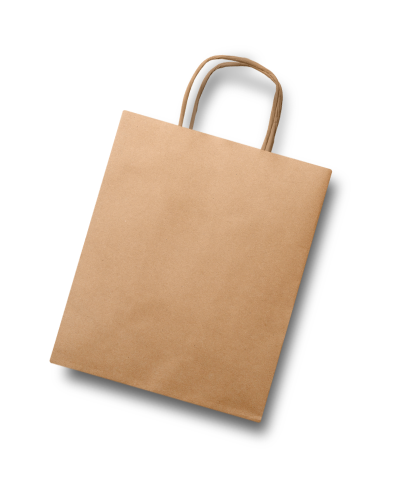
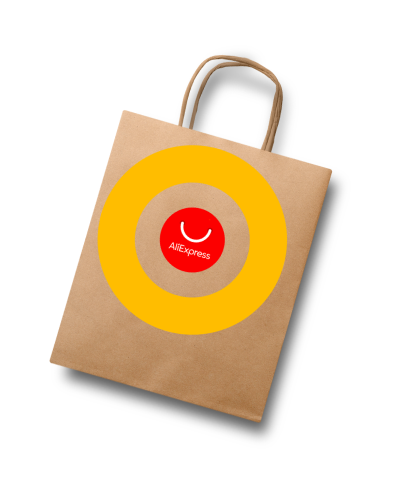
added target

Changed region(s): [[0.2324, 0.2923, 0.6973, 0.7015], [0.3777, 0.4092, 0.5521, 0.5846]]

diff --git a/index.html b/index.html
@@ -119,7 +119,7 @@
                     <div class="situation-solution__right">
                         <div class="leaky-sides">Решение</div>
                         <p class="situation-solution__right-text">Точнее, их два.</p>
-                        <ul class="situation-solution__list">
+                        <ol class="situation-solution__list">
                             <li class="situation-solution__list-item">
                                 <div class="situation-solution__list-circle">
                                     <span>1</span>
@@ -140,7 +140,7 @@
                                     рекламные инструменты, которыми вы пользовались до этого.
                                 </p>
                             </li>
-                        </ul>
+                        </ol>
                     </div>
                 </div>
             </div>
@@ -277,10 +277,41 @@
             <section class="how-section">
                 <div class="container">
                     <h2 class="section-title section-title--black">Как организован процесс?</h2>
-                    <div class="how-section__content">
-                        <div class="how-section__img-block">
-                            <img src="images/how-section-img/chels-misheniu.png" alt="misheniu">
-                        </div>
+                    <div class="how-section__img-block">
+                        <img src="images/how-section-img/chels-target.png" alt="target" />
+
+                        <ol class="how-section__list">
+                            <li class="how-section__list-item how-section__item-left">
+                                <span class="how-section__circle">2</span>
+                                <p class="how-section__item-text">
+                                    Представляет интересы мерчантов и коммуницирует с площадкой по всем
+                                    установочным вопросам.
+                                </p>
+                            </li>
+
+                            <li class="how-section__list-item">
+                                <span class="how-section__circle">3</span>
+                                <p class="how-section__item-text">
+                                    Ищет партнеров-реселлеров при необходимости и помогает наладить
+                                    взаимодействие.
+                                </p>
+                            </li>
+
+                            <li class="how-section__list-item how-section__item-left">
+                                <span class="how-section__circle">1</span>
+                                <p class="how-section__item-text">
+                                    Проводник ищет магазины и производителей и заводит их на маркетплейс.
+                                </p>
+                            </li>
+
+                            <li class="how-section__list-item">
+                                <span class="how-section__circle">4</span>
+                                <p class="how-section__item-text">
+                                    Уже освоил алгоритм продвижения магазина и готов его применить для вашей
+                                    раскрутки на маркетплейсе.
+                                </p>
+                            </li>
+                        </ol>
                     </div>
                 </div>
             </section>

diff --git a/styles/style.css b/styles/style.css
@@ -305,10 +305,13 @@ header {
   -webkit-column-gap: 70px;
           column-gap: 70px;
   row-gap: 15px;
+  position: absolute;
+  right: 0;
 }
 
 @media (max-width: 768px) {
   .header__contact {
+    position: static;
     width: 70%;
     -webkit-box-orient: vertical;
     -webkit-box-direction: normal;
@@ -388,7 +391,7 @@ header {
 .btn--header {
   font-size: 1.125rem;
   padding: 0.625rem 1.25rem;
-  margin-right: 17px;
+  margin-right: 10px;
 }
 
 .btn--header svg {
@@ -1056,7 +1059,7 @@ header {
 
 @media (max-width: 768px) {
   .situation-solution__list-item {
-    margin-bottom: 3.75rem;
+    margin-bottom: 4.375rem;
     padding-right: 0;
   }
 }
@@ -1537,16 +1540,108 @@ header {
 }
 
 .how-section__img-block {
+  max-height: 582px;
+  margin-top: 70px;
   display: -webkit-box;
   display: -ms-flexbox;
   display: flex;
   -webkit-box-pack: center;
       -ms-flex-pack: center;
           justify-content: center;
-  margin-top: 70px;
+  position: relative;
 }
 
 .how-section__img-block img {
-  max-width: 100%;
+  max-width: 46vw;
+}
+
+.how-section__list {
+  width: 100%;
+  height: 89%;
+  list-style: none;
+  position: absolute;
+  top: 44.5%;
+  left: 50%;
+  -webkit-transform: translate3d(-50%, -50%, 0);
+          transform: translate3d(-50%, -50%, 0);
+  display: -ms-grid;
+  display: grid;
+  -ms-grid-columns: 1fr 1fr;
+      grid-template-columns: 1fr 1fr;
+  grid-column-gap: 12%;
+}
+
+.how-section__list-item {
+  display: -webkit-box;
+  display: -ms-flexbox;
+  display: flex;
+  -webkit-box-align: center;
+      -ms-flex-align: center;
+          align-items: center;
+  -webkit-column-gap: calc(1vw + 25px);
+          column-gap: calc(1vw + 25px);
+}
+
+.how-section__list-item:nth-child(1) {
+  margin-right: calc(19% + 5vh);
+}
+
+.how-section__list-item:nth-child(2) {
+  margin-top: calc(-100px + -11vw);
+}
+
+.how-section__list-item:nth-child(3) {
+  margin-right: calc(20% + 3vw);
+}
+
+.how-section__list-item:nth-child(4) {
+  margin-top: calc(-29% - 13vw);
+  margin-left: calc(25% + 6vh);
+}
+
+.how-section__item-left .how-section__circle {
+  -webkit-box-ordinal-group: 3;
+      -ms-flex-order: 2;
+          order: 2;
+}
+
+.how-section__item-left .how-section__item-text {
+  -webkit-box-ordinal-group: 2;
+      -ms-flex-order: 1;
+          order: 1;
+  text-align: end;
+}
+
+.how-section__circle {
+  display: -webkit-box;
+  display: -ms-flexbox;
+  display: flex;
+  -webkit-box-pack: center;
+      -ms-flex-pack: center;
+          justify-content: center;
+  -webkit-box-align: center;
+      -ms-flex-align: center;
+          align-items: center;
+  -ms-flex-negative: 0;
+      flex-shrink: 0;
+  -webkit-box-sizing: content-box;
+          box-sizing: content-box;
+  width: calc(1vw + 20px);
+  height: calc(1vw + 20px);
+  font-family: "Roboto Condensed", sans-serif;
+  font-size: calc(1vw + 6px);
+  font-weight: 700;
+  color: #fff;
+  background-color: #651fff;
+  border-radius: 50%;
+  border: 4px solid #fff;
+  -webkit-box-shadow: 0 0 0 0.55vw #fdbf0f;
+          box-shadow: 0 0 0 0.55vw #fdbf0f;
+}
+
+.how-section__item-text {
+  max-width: 330px;
+  font-size: calc(1vw + 6px);
+  line-height: 1.25;
 }
 /*# sourceMappingURL=style.css.map */

diff --git a/styles/blocks/_how-section.scss b/styles/blocks/_how-section.scss
@@ -2,15 +2,94 @@
     background-color: $light-gray;
     margin-top: 100px;
     padding-top: 70px;
+    // overflow: hidden;
 }
 
 .how-section__img-block {
-    display: flex;
-    justify-content: center;
-
+    max-height: 582px;
     margin-top: 70px;
 
+    display: flex;
+    justify-content: center;
+    position: relative;
+
     img {
-        max-width: 100%;
+        max-width: 46vw;
     }
+}
+
+.how-section__list {
+    width: 100%;
+    height: 89%;
+    list-style: none;
+    position: absolute;
+    top: 44.5%;
+    left: 50%;
+    transform: translate3d(-50%, -50%, 0);
+
+    display: grid;
+    grid-template-columns: 1fr 1fr;
+    grid-column-gap: 12%;
+}
+
+.how-section__list-item {
+    display: flex;
+    align-items: center;
+    column-gap: calc(1vw + 25px);
+
+    &:nth-child(1) {
+        margin-right: calc(19% + 5vh);
+    }
+
+    &:nth-child(2) {
+        margin-top: calc(-100px + -11vw);
+    }
+
+    &:nth-child(3) {
+        margin-right: calc(20% + 3vw);
+    }
+
+    &:nth-child(4) {
+        margin-top: calc(-29% - 13vw);
+        margin-left: calc(25% + 6vh);
+    }
+}
+
+.how-section__item-left {
+    .how-section__circle {
+        order: 2;
+    }
+
+    .how-section__item-text {
+        order: 1;
+        text-align: end;
+    }
+}
+
+.how-section__circle {
+    display: flex;
+    justify-content: center;
+    align-items: center;
+    flex-shrink: 0;
+
+    box-sizing: content-box;
+    width: calc(1vw + 20px);
+    height: calc(1vw + 20px);
+
+    font-family: $title-font-family;
+    font-size: calc(1vw + 6px);
+    font-weight: 700;
+    color: $white;
+    background-color: $electric-violet;
+    border-radius: 50%;
+    border: 4px solid $white;
+
+    box-shadow: 0 0 0 0.55vw $lightning-yellow;
+}
+
+.how-section__item-text {
+    // width: 30vw;
+    max-width: 330px;
+    font-size: calc(1vw + 6px);
+    line-height: 1.25;
 }

diff --git a/styles/blocks/_header.scss b/styles/blocks/_header.scss
@@ -106,7 +106,11 @@ header {
     column-gap: 70px;
     row-gap: 15px;
 
+    position: absolute;
+    right: 0;
+
     @media (max-width: 768px) {
+        position: static;
         width: 70%;
         flex-direction: column;
         justify-content: space-around;
@@ -169,7 +173,7 @@ header {
 .btn--header {
     font-size: rem(18px);
     padding: rem(10px) rem(20px);
-    margin-right: 17px;
+    margin-right: 10px;
 
     svg {
         left: 98%;

diff --git a/styles/blocks/_situation-solution.scss b/styles/blocks/_situation-solution.scss
@@ -87,7 +87,7 @@
     }
 
     @media (max-width: 768px) {
-        margin-bottom: rem(60px);
+        margin-bottom: rem(70px);
         padding-right: 0;
     }
 }
